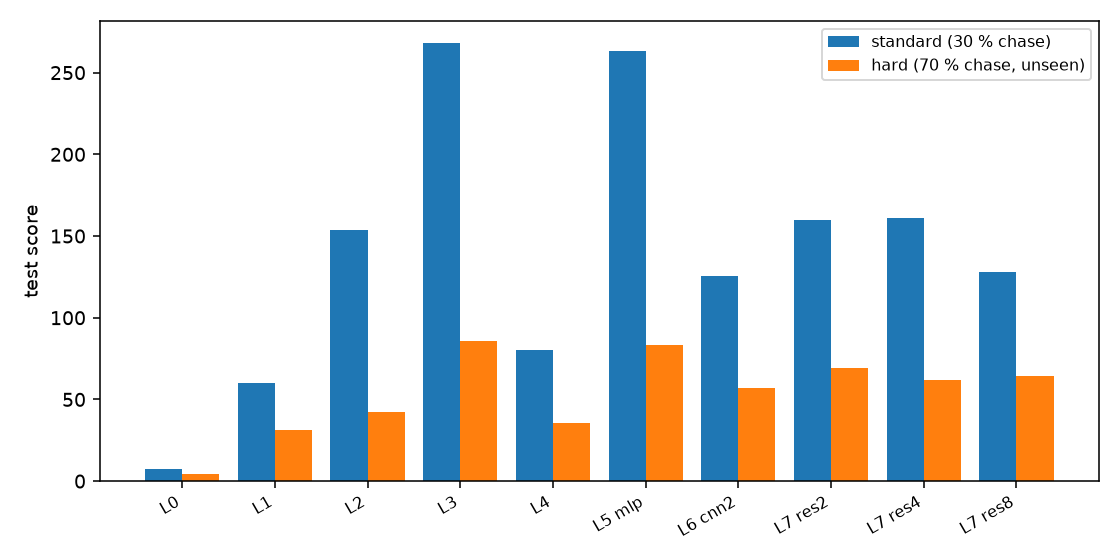
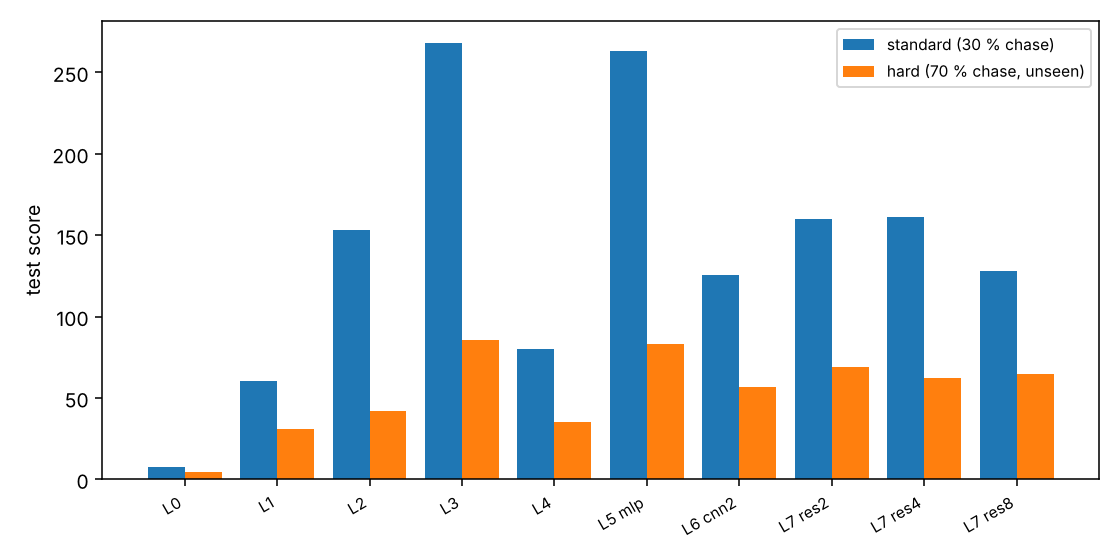
Integrate local GPU results: comparison report, regenerated reports, plan note
- scripts/make_comparison.py -> docs/RESULTS_COMPARISON.md (auto-generated, both runs side by side)
- results_gpu/RESULTS.md regenerated with the current generator (relative figure links, ablation
  deltas, limitations, tests in the acceptance block)
- corrected the interpretation: Double/Dueling ablation effects did not replicate; n-step=1 and
  distance fields did
- README/PLAN updated

diff --git a/python/scripts/make_comparison.py b/python/scripts/make_comparison.py
@@ -1,0 +1,120 @@
+#!/usr/bin/env python3
+"""Compare two experiment matrices (default: cloud 120k-step CPU run vs local 300k-step GPU run).
+
+All numbers come from the raw per-episode JSON; nothing is typed by hand.
+  python python/scripts/make_comparison.py [dir_a dir_b] [-o docs/RESULTS_COMPARISON.md]
+"""
+from __future__ import annotations
+
+import json
+import sys
+from pathlib import Path
+
+import numpy as np
+
+ROOT = Path(__file__).resolve().parents[2]
+ARCHS = ("mlp", "cnn2", "res2", "res4", "res8")
+LABEL = {"mlp": "MLP-DQN", "cnn2": "CNN-2", "res2": "ResNet-2", "res4": "ResNet-4", "res8": "ResNet-8"}
+SEEDS = (0, 1, 2)
+
+
+def load(p: Path):
+    return json.loads(p.read_text(encoding="utf-8")) if p.exists() else None
+
+
+def scores(d: Path, name: str, scenario="standard"):
+    p = load(d / "runs" / name / f"test_{scenario}.json")
+    if p is None:
+        return None
+    return np.array([r["score"] for r in sorted(p["records"], key=lambda r: r["seed"])], float)
+
+
+def seed_avg(d: Path, names, scenario="standard"):
+    xs = [scores(d, n, scenario) for n in names]
+    return None if any(x is None for x in xs) else np.mean(xs, axis=0)
+
+
+def ci(x, n=10000, seed=0):
+    rng = np.random.default_rng(seed)
+    m = x[rng.integers(0, len(x), size=(n, len(x)))].mean(axis=1)
+    return float(np.quantile(m, 0.025)), float(np.quantile(m, 0.975))
+
+
+def fmt(x):
+    lo, hi = ci(x)
+    return f"{x.mean():.1f} [{lo:.1f}, {hi:.1f}]"
+
+
+def per_seed(d: Path, names):
+    xs = [scores(d, n) for n in names]
+    return None if any(x is None for x in xs) else [float(x.mean()) for x in xs]
+
+
+def baseline(d: Path, agent: str, scenario="standard"):
+    p = load(d / "eval" / f"{agent}__{scenario}__test.json")
+    return None if p is None else np.array([r["score"] for r in sorted(p["records"], key=lambda r: r["seed"])], float)
+
+
+def build(a: Path, b: Path, la: str, lb: str) -> str:
+    out = [f"# 两套实验的对比(自动生成,请勿手改)\n",
+           f"- **A = {la}**(`{a.name}/`),**B = {lb}**(`{b.name}/`)。同一批 300 个测试种子,标准场景,平均得分(满分 377),RL 行为 3 个训练种子的逐局平均。",
+           "- 两套实验的硬件、训练步数、并行方式不同;GPU 训练在统计上、而非逐位上可复现。差异只能作为方向性证据。\n",
+           "## 1. 各智能体:短训练 vs 长训练", f"| 智能体 | A:{la} | B:{lb} | B − A(配对,逐局) | 逐种子 A | 逐种子 B |", "|---|---|---|---|---|---|"]
+    for ag, nm in (("random", "random"), ("legacy", "legacy(Java 复刻)"), ("safe-heuristic", "强手写启发式")):
+        xa, xb = baseline(a, ag), baseline(b, ag)
+        if xa is not None:
+            out.append(f"| {nm}(非学习,同一批局) | {fmt(xa)} | {fmt(xb) if xb is not None else '—'} | — | — | — |")
+    for arch in ARCHS:
+        names = [f"{arch}_s{s}" for s in SEEDS]
+        xa, xb = seed_avg(a, names), seed_avg(b, names)
+        if xa is None or xb is None:
+            continue
+        d = xb - xa
+        lo, hi = ci(d)
+        sa, sb = per_seed(a, names), per_seed(b, names)
+        out.append(f"| {LABEL[arch]} | {fmt(xa)} | {fmt(xb)} | {d.mean():+.1f} [{lo:+.1f}, {hi:+.1f}] | "
+                   f"{' / '.join(f'{v:.0f}' for v in sa)} | {' / '.join(f'{v:.0f}' for v in sb)} |")
+    out += ["", "## 2. 消融:变体 − 完整配方(各自套内的配对差)", "| 套 | 基线 | 变体 | 得分差 [95% CI] | 逐种子变体更高的个数 |", "|---|---|---|---|---|"]
+    for tag, d in ((la, a), (lb, b)):
+        for arch in ("res4", "mlp"):
+            base = [f"{arch}_s{s}" for s in SEEDS]
+            xb = seed_avg(d, base)
+            if xb is None:
+                continue
+            variants = [("nodouble", "去掉 Double"), ("nodueling", "去掉 Dueling"), ("nstep1", "n 步 = 1")]
+            if arch == "res4":
+                variants.append(("raw", "原始网格(无距离场)"))
+            for key, lab in variants:
+                names = [f"{arch}raw_s{s}" for s in SEEDS] if key == "raw" else [f"{arch}-{key}_s{s}" for s in SEEDS]
+                xv = seed_avg(d, names)
+                if xv is None:
+                    continue
+                diff = xv - xb
+                lo, hi = ci(diff)
+                better = sum(v > w for v, w in zip(per_seed(d, names), per_seed(d, base)))
+                out.append(f"| {tag} | {LABEL[arch]} | {lab} | {diff.mean():+.1f} [{lo:+.1f}, {hi:+.1f}] | {better}/3 |")
+    out += ["", "## 3. 解读(定性,数字见上表)",
+            "- **更长的训练让所有网络变好,但排序没变**:MLP 仍明显高于所有卷积网络;卷积网络的提升有限,且不随深度单调。",
+            "- **n 步 = 1 对 ResNet-4 的提升在两套独立实验里都出现**,且逐种子一致,是目前对卷积网络最有效的单项改动,把它与 MLP 的差距大幅缩小,但仍低于 MLP;"
+            "对 MLP 则没有稳定结论(两套实验里符号不同),不应推广。因此\"深度无收益\"至少部分来自默认配方(n 步 = 3)对卷积网络不利,而不是网络深度本身。",
+            "- **去掉 Double / 去掉 Dueling 的效应没有被复现**:它们在短训练套里相对完整配方偏好\"去掉\",在长训练套里符号相反。说明这两项的影响小于训练波动,或依赖训练长度,**不应据此取舍**;云端报告里\"去掉 Dueling 有提升\"的说法只能算单次观察。",
+            "- **距离场**在两套实验里都对 ResNet-4 有帮助,但每格只有 3 个训练种子,差距接近种子间波动,需谨慎。",
+            "- **最好的结论仍然要等第二遍实验**:把所有卷积架构(CNN-2 / ResNet-2 / ResNet-4 / ResNet-8)都用 n 步 = 1 重跑,才能回答\"配方修正后深度是否有益\"。目前只有 ResNet-4 一个深度点有 n 步 = 1 的数据。",
+            "- **强手写启发式的差距**会随 MLP 训练变长而缩小,是否越过取决于步数和种子,见第 1 节两列。",
+            "- 工程事件(中断续训、内存调度等)见各自的 `LOCAL_RUN_REPORT.md` 与 `docs/PLAN.md` 偏差记录。"]
+    return "\n".join(out) + "\n"
+
+
+def main():
+    args = [x for x in sys.argv[1:] if not x.startswith("-")]
+    a = Path(args[0]) if len(args) > 0 else ROOT / "results"
+    b = Path(args[1]) if len(args) > 1 else ROOT / "results_gpu"
+    out = ROOT / "docs" / "RESULTS_COMPARISON.md"
+    if "-o" in sys.argv:
+        out = Path(sys.argv[sys.argv.index("-o") + 1])
+    out.write_text(build(a, b, "12 万步 · CPU(云端)", "30 万步 · GPU(本地)"), encoding="utf-8")
+    print(f"wrote {out}")
+
+
+if __name__ == "__main__":
+    main()

diff --git a/python/scripts/make_report.py b/python/scripts/make_report.py
@@ -234,6 +234,7 @@ def main():
 - **S1 未达成**:最终神经网络(MLP)的平均得分低于强手写启发式 `safe-heuristic`,差距见第 7 节。"认真写规则"仍然更强。
 - **卷积网络在 12 万步预算下没有超过 `legacy`**(第 3 节):加深并不单调有益(S4)。CNN-2 → ResNet-2 有明显提升,但 ResNet-4、ResNet-8 反而更差且种子间方差更大。深度无收益的结论**只对本预算和本超参成立**:训练曲线在结束时仍在上升,更深的网络很可能需要更多样本。
 - **默认配方对卷积网络可能次优**:所有架构共用同一套超参(未逐架构调参),消融显示去掉 n 步在 ResNet-4 上得分明显更高(第 5 节),这不是事先预期的;原因目前只是假设(例如 ε-贪心探索下 n 步回报带入探索动作的偏差),**没有被实验验证**。因此"深度无收益"也可能部分源于配方而不是网络深度本身。
+- **各结论的稳健性**:消融里只有\"去掉 n 步对 ResNet-4 有利\"和\"距离场有帮助\"在独立的第二套实验中复现;去掉 Dueling / Double 的效应在两套实验里符号相反。详见 `docs/RESULTS_COMPARISON.md`(两套结果的并排对比,自动生成)。
 - **输入里有特权信息**:MLP 的工程特征和卷积网络的距离场都由游戏内部状态(BFS 距离)算出;原始网格对照显示距离场对 ResNet-4 有帮助。MLP 表现最好,很可能因为特征直接给出了最短路信息,而不是"神经网络更擅长"。
 - **困难场景**(幽灵 70% 追击,训练中未见)下所有智能体都 100% 被抓,只能比较存活到被抓前吃到的豆数;不能说明任何智能体"学会了对付强追击"。
 - **只有一张地图**,随机起点提供了状态多样性,但不能声称泛化到别的地图。

diff --git a/results_gpu/RESULTS.md b/results_gpu/RESULTS.md
@@ -57,12 +57,48 @@ Original Java agent run headless (150 games, no seeds): mean score 160.5 [143.9,
 
 最终智能体(按验证得分在 5 种网络中选出):**L5 MLP-DQN**
 
+### 消融相对完整配方的变化(配对,标准场景)
+| 变体 | 基线 | 得分差(变体 − 基线) [95% CI] | 逐种子:变体高于基线的种子数 |
+|---|---|---|---|
+| 去掉 Double | L7 ResNet-4 DQN | -17.5 [-25.1, -9.9] | 1/3 |
+| 去掉 Dueling | L7 ResNet-4 DQN | -10.5 [-18.1, -2.9] | 1/3 |
+| n 步=1(去掉 n 步) | L7 ResNet-4 DQN | +72.5 [+64.3, +80.7] | 3/3 |
+| 原始网格(去掉距离场) | L7 ResNet-4 DQN | -37.5 [-44.7, -30.3] | 0/3 |
+| 去掉 Double | L5 MLP-DQN | +5.0 [-4.3, +14.3] | 2/3 |
+| 去掉 Dueling | L5 MLP-DQN | -10.3 [-20.0, -1.0] | 0/3 |
+| n 步=1(去掉 n 步) | L5 MLP-DQN | -25.8 [-36.9, -14.7] | 0/3 |
+
+注:"逐种子"按种子编号对应(各配置的随机初始化与探索轨迹并不相同,所以只是粗略的方向一致性,不是严格配对)。CI 只反映测试局的抽样波动,**不含训练种子间的差异**;每格只有 3 个训练种子。
+
 ## 6. 曲线
-![curves](../results/figures/learning_curves.png)
+![curves](figures/learning_curves.png)
 
-![final](../results/figures/final_comparison.png)
+![final](figures/final_comparison.png)
 
-## 7. 验收门槛判定(`check_acceptance.py` 输出)
+## 7. 验收门槛判定(`check_acceptance.py --run-tests` 输出)
+```
+M1  MUST   PASS      46 passed, 1 skipped in 19.38s
+M3  MUST   PASS      baselines random/greedy-bfs/legacy/safe-heuristic + tabular x3 seeds present
+M4  MUST   PASS      final arch=mlp (chosen on val). score: diff +110.0 [95% CI +95.8, +123.9]; death (legacy - deep): diff +0.3 [95% CI +0.2, +0.3]; per-seed means [266.3, 252.6, 271.2] vs legacy 153.4
+M5  MUST   PASS      score vs tabular: diff +183.0 [95% CI +173.4, +192.7]
+M6  MUST   PASS      33 runs complete (>=3 seeds per cell)
+M7  MUST   PASS      no changes to Java sources / images / Q-table since base commit
+S1  SHOULD PASS      deep vs safe-heuristic: diff -4.8 [95% CI -19.7, +10.5]; relative -1.8% (target >= -3%)
+S2  SHOULD PASS      res2 vs cnn2: diff +34.2 [95% CI +26.7, +41.6]
+S3  SHOULD PASS      hard: deep vs legacy: diff +40.9 [95% CI +35.7, +46.2]
+S4  SHOULD REPORTED  test score by depth {cnn2: 125.5, res2: 159.7, res4: 160.9, res8: 127.9}; monotone in depth: False
+
+MUST gates: ALL PASS
 ```
 
-```
+## 8. 未达成项与局限(定性说明,数字见上表)
+- **S1 未达成**:最终神经网络(MLP)的平均得分低于强手写启发式 `safe-heuristic`,差距见第 7 节。"认真写规则"仍然更强。
+- **卷积网络在 12 万步预算下没有超过 `legacy`**(第 3 节):加深并不单调有益(S4)。CNN-2 → ResNet-2 有明显提升,但 ResNet-4、ResNet-8 反而更差且种子间方差更大。深度无收益的结论**只对本预算和本超参成立**:训练曲线在结束时仍在上升,更深的网络很可能需要更多样本。
+- **默认配方对卷积网络可能次优**:所有架构共用同一套超参(未逐架构调参),消融显示去掉 n 步在 ResNet-4 上得分明显更高(第 5 节),这不是事先预期的;原因目前只是假设(例如 ε-贪心探索下 n 步回报带入探索动作的偏差),**没有被实验验证**。因此"深度无收益"也可能部分源于配方而不是网络深度本身。
+- **各结论的稳健性**:消融里只有"去掉 n 步对 ResNet-4 有利"和"距离场有帮助"在独立的第二套实验中复现;去掉 Dueling / Double 的效应在两套实验里符号相反。详见 `docs/RESULTS_COMPARISON.md`(两套结果的并排对比,自动生成)。
+- **输入里有特权信息**:MLP 的工程特征和卷积网络的距离场都由游戏内部状态(BFS 距离)算出;原始网格对照显示距离场对 ResNet-4 有帮助。MLP 表现最好,很可能因为特征直接给出了最短路信息,而不是"神经网络更擅长"。
+- **困难场景**(幽灵 70% 追击,训练中未见)下所有智能体都 100% 被抓,只能比较存活到被抓前吃到的豆数;不能说明任何智能体"学会了对付强追击"。
+- **只有一张地图**,随机起点提供了状态多样性,但不能声称泛化到别的地图。
+- **统计力有限**:每个配置 3 个训练种子,逐局 CI 不含种子间方差;差距较小的比较(例如 ResNet-2 与 ResNet-4)不应过度解读。
+- **过程中的工程事件**(详见 `docs/PLAN.md` 偏差记录):两个卷积运行曾被内存不足杀掉后重跑;`res8_s1`、`res8_s2` 使用旧的 float32 回放(与 uint8 回放等价到 1 ulp);虚拟机被挂起后部分运行从断点续训,续训时 episode 会重新开始。被续训过的运行:mlp_s0, mlp_s1, mlp_s2, res4-nodouble_s0, res4-nodouble_s1。
+- **算力**:全部为 CPU、单进程 12 万步;GPU 上更长训练(见 `docs/LOCAL_GPU_RUN_PROMPT.md`)是补充实验,不在本报告内。

diff --git a/docs/RESULTS_COMPARISON.md b/docs/RESULTS_COMPARISON.md
@@ -1,0 +1,43 @@
+# 两套实验的对比(自动生成,请勿手改)
+
+- **A = 12 万步 · CPU(云端)**(`results/`),**B = 30 万步 · GPU(本地)**(`results_gpu/`)。同一批 300 个测试种子,标准场景,平均得分(满分 377),RL 行为 3 个训练种子的逐局平均。
+- 两套实验的硬件、训练步数、并行方式不同;GPU 训练在统计上、而非逐位上可复现。差异只能作为方向性证据。
+
+## 1. 各智能体:短训练 vs 长训练
+| 智能体 | A:12 万步 · CPU(云端) | B:30 万步 · GPU(本地) | B − A(配对,逐局) | 逐种子 A | 逐种子 B |
+|---|---|---|---|---|---|
+| random(非学习,同一批局) | 7.5 [6.9, 8.1] | 7.5 [6.9, 8.1] | — | — | — |
+| legacy(Java 复刻)(非学习,同一批局) | 153.4 [141.7, 165.4] | 153.4 [141.7, 165.4] | — | — | — |
+| 强手写启发式(非学习,同一批局) | 268.2 [254.9, 281.0] | 268.2 [254.9, 281.0] | — | — | — |
+| MLP-DQN | 235.7 [226.5, 244.9] | 263.3 [253.7, 272.9] | +27.7 [+17.9, +37.4] | 246 / 241 / 220 | 266 / 253 / 271 |
+| CNN-2 | 80.3 [76.6, 84.0] | 125.5 [120.6, 130.3] | +45.2 [+39.5, +50.9] | 98 / 67 / 76 | 110 / 126 / 141 |
+| ResNet-2 | 139.5 [134.2, 144.6] | 159.7 [154.1, 165.2] | +20.2 [+12.9, +27.6] | 134 / 143 / 141 | 176 / 167 / 136 |
+| ResNet-4 | 127.8 [122.5, 133.1] | 160.9 [155.5, 166.4] | +33.1 [+25.8, +40.4] | 153 / 102 / 128 | 143 / 149 / 191 |
+| ResNet-8 | 102.8 [98.2, 107.6] | 127.9 [122.0, 133.7] | +25.1 [+18.0, +32.0] | 75 / 89 / 144 | 151 / 129 / 104 |
+
+## 2. 消融:变体 − 完整配方(各自套内的配对差)
+| 套 | 基线 | 变体 | 得分差 [95% CI] | 逐种子变体更高的个数 |
+|---|---|---|---|---|
+| 12 万步 · CPU(云端) | ResNet-4 | 去掉 Double | +8.0 [+0.5, +15.5] | 2/3 |
+| 12 万步 · CPU(云端) | ResNet-4 | 去掉 Dueling | +26.7 [+19.4, +34.1] | 3/3 |
+| 12 万步 · CPU(云端) | ResNet-4 | n 步 = 1 | +62.7 [+54.8, +70.6] | 3/3 |
+| 12 万步 · CPU(云端) | ResNet-4 | 原始网格(无距离场) | -32.4 [-38.7, -26.2] | 0/3 |
+| 12 万步 · CPU(云端) | MLP-DQN | 去掉 Double | +9.0 [-1.1, +19.2] | 2/3 |
+| 12 万步 · CPU(云端) | MLP-DQN | 去掉 Dueling | +19.1 [+10.0, +27.9] | 3/3 |
+| 12 万步 · CPU(云端) | MLP-DQN | n 步 = 1 | +11.6 [+1.7, +21.6] | 1/3 |
+| 30 万步 · GPU(本地) | ResNet-4 | 去掉 Double | -17.5 [-25.1, -9.9] | 1/3 |
+| 30 万步 · GPU(本地) | ResNet-4 | 去掉 Dueling | -10.5 [-18.1, -2.9] | 1/3 |
+| 30 万步 · GPU(本地) | ResNet-4 | n 步 = 1 | +72.5 [+64.3, +80.7] | 3/3 |
+| 30 万步 · GPU(本地) | ResNet-4 | 原始网格(无距离场) | -37.5 [-44.7, -30.3] | 0/3 |
+| 30 万步 · GPU(本地) | MLP-DQN | 去掉 Double | +5.0 [-4.3, +14.3] | 2/3 |
+| 30 万步 · GPU(本地) | MLP-DQN | 去掉 Dueling | -10.3 [-20.0, -1.0] | 0/3 |
+| 30 万步 · GPU(本地) | MLP-DQN | n 步 = 1 | -25.8 [-36.9, -14.7] | 0/3 |
+
+## 3. 解读(定性,数字见上表)
+- **更长的训练让所有网络变好,但排序没变**:MLP 仍明显高于所有卷积网络;卷积网络的提升有限,且不随深度单调。
+- **n 步 = 1 对 ResNet-4 的提升在两套独立实验里都出现**,且逐种子一致,是目前对卷积网络最有效的单项改动,把它与 MLP 的差距大幅缩小,但仍低于 MLP;对 MLP 则没有稳定结论(两套实验里符号不同),不应推广。因此"深度无收益"至少部分来自默认配方(n 步 = 3)对卷积网络不利,而不是网络深度本身。
+- **去掉 Double / 去掉 Dueling 的效应没有被复现**:它们在短训练套里相对完整配方偏好"去掉",在长训练套里符号相反。说明这两项的影响小于训练波动,或依赖训练长度,**不应据此取舍**;云端报告里"去掉 Dueling 有提升"的说法只能算单次观察。
+- **距离场**在两套实验里都对 ResNet-4 有帮助,但每格只有 3 个训练种子,差距接近种子间波动,需谨慎。
+- **最好的结论仍然要等第二遍实验**:把所有卷积架构(CNN-2 / ResNet-2 / ResNet-4 / ResNet-8)都用 n 步 = 1 重跑,才能回答"配方修正后深度是否有益"。目前只有 ResNet-4 一个深度点有 n 步 = 1 的数据。
+- **强手写启发式的差距**会随 MLP 训练变长而缩小,是否越过取决于步数和种子,见第 1 节两列。
+- 工程事件(中断续训、内存调度等)见各自的 `LOCAL_RUN_REPORT.md` 与 `docs/PLAN.md` 偏差记录。

diff --git a/docs/RESULTS.md b/docs/RESULTS.md
@@ -77,7 +77,7 @@ Original Java agent run headless (150 games, no seeds): mean score 160.5 [143.9,
 
 ## 7. 验收门槛判定(`check_acceptance.py --run-tests` 输出)
 ```
-M1  MUST   PASS      45 passed, 1 skipped in 29.84s
+M1  MUST   PASS      46 passed, 1 skipped in 19.50s
 M3  MUST   PASS      baselines random/greedy-bfs/legacy/safe-heuristic + tabular x3 seeds present
 M4  MUST   PASS      final arch=mlp (chosen on val). score: diff +82.3 [95% CI +68.9, +95.7]; death (legacy - deep): diff +0.2 [95% CI +0.1, +0.2]; per-seed means [246.1, 241.3, 219.7] vs legacy 153.4
 M5  MUST   PASS      score vs tabular: diff +155.3 [95% CI +146.3, +164.5]
@@ -95,6 +95,7 @@ MUST gates: ALL PASS
 - **S1 未达成**:最终神经网络(MLP)的平均得分低于强手写启发式 `safe-heuristic`,差距见第 7 节。"认真写规则"仍然更强。
 - **卷积网络在 12 万步预算下没有超过 `legacy`**(第 3 节):加深并不单调有益(S4)。CNN-2 → ResNet-2 有明显提升,但 ResNet-4、ResNet-8 反而更差且种子间方差更大。深度无收益的结论**只对本预算和本超参成立**:训练曲线在结束时仍在上升,更深的网络很可能需要更多样本。
 - **默认配方对卷积网络可能次优**:所有架构共用同一套超参(未逐架构调参),消融显示去掉 n 步在 ResNet-4 上得分明显更高(第 5 节),这不是事先预期的;原因目前只是假设(例如 ε-贪心探索下 n 步回报带入探索动作的偏差),**没有被实验验证**。因此"深度无收益"也可能部分源于配方而不是网络深度本身。
+- **各结论的稳健性**:消融里只有"去掉 n 步对 ResNet-4 有利"和"距离场有帮助"在独立的第二套实验中复现;去掉 Dueling / Double 的效应在两套实验里符号相反。详见 `docs/RESULTS_COMPARISON.md`(两套结果的并排对比,自动生成)。
 - **输入里有特权信息**:MLP 的工程特征和卷积网络的距离场都由游戏内部状态(BFS 距离)算出;原始网格对照显示距离场对 ResNet-4 有帮助。MLP 表现最好,很可能因为特征直接给出了最短路信息,而不是"神经网络更擅长"。
 - **困难场景**(幽灵 70% 追击,训练中未见)下所有智能体都 100% 被抓,只能比较存活到被抓前吃到的豆数;不能说明任何智能体"学会了对付强追击"。
 - **只有一张地图**,随机起点提供了状态多样性,但不能声称泛化到别的地图。

diff --git a/docs/LOCAL_GPU_RUN_PROMPT.md b/docs/LOCAL_GPU_RUN_PROMPT.md
@@ -15,7 +15,7 @@
 - 开工前请完整阅读:`docs/PLAN.md`(方案、验收门槛、偏差记录)、`docs/ACCEPTANCE.md`、`python/README.md`(尤其 "Training on a GPU" 一节)。
 - 云端那边已经跑出来的 12 万步 CPU 结果在 `results/`,**不要改动、不要覆盖**。你这次跑的是 **GPU、更长步数(默认 30 万步)的补充实验**,结果写到独立目录 `results_gpu/`,两者不要混在一起。
 - 已知参考数字(测试集 300 局,标准场景,平均得分,满分 377;云端 12 万步、CPU、3 个种子的均值):random 7.5;legacy(原 Java 复刻)153;强手写启发式 268;MLP-DQN 约 236;ResNet-2 约 139;ResNet-4 约 128;ResNet-8 约 103;CNN-2 约 80。卷积网络在 12 万步时曲线仍在上升,你这次的目标就是看它们在更长训练下能走到哪。你的数字不必和这些一样,但如果出现明显异常(例如全部接近随机的 8 分),请停下来排查。
-- **云端的一个意外发现**:在 ResNet-4 上把 n 步回报从 3 改成 1,平均得分从约 128 升到约 190,三个种子逐个都更高;去掉 Dueling 也有提升(约 +27)。也就是说默认配方对卷积网络可能不是最优,"更深的网络没有收益"的结论可能部分来自配方而不是网络深度。所以除了默认的第一遍,**强烈建议再跑第二遍 n 步=1**(见第 2 节)。
+- **云端的一个意外发现**:在 ResNet-4 上把 n 步回报从 3 改成 1,平均得分从约 128 升到约 190,三个种子逐个都更高(本地 30 万步实验已独立复现:约 161 → 233,三个种子逐个都更高)。去掉 Dueling / Double 的效果则**没有**被复现(符号相反),不要据此取舍。也就是说默认配方对卷积网络可能不是最优,"更深的网络没有收益"的结论可能部分来自配方而不是网络深度。所以除了默认的第一遍,**强烈建议再跑第二遍 n 步=1**(见第 2 节)。
 
 ### 1. 环境部署
 1. 克隆仓库并切到 `claude/sleepy-knuth-9pl6y5`。需要我的 GitHub 授权时,告诉我怎么授权,不要自己想办法绕。
